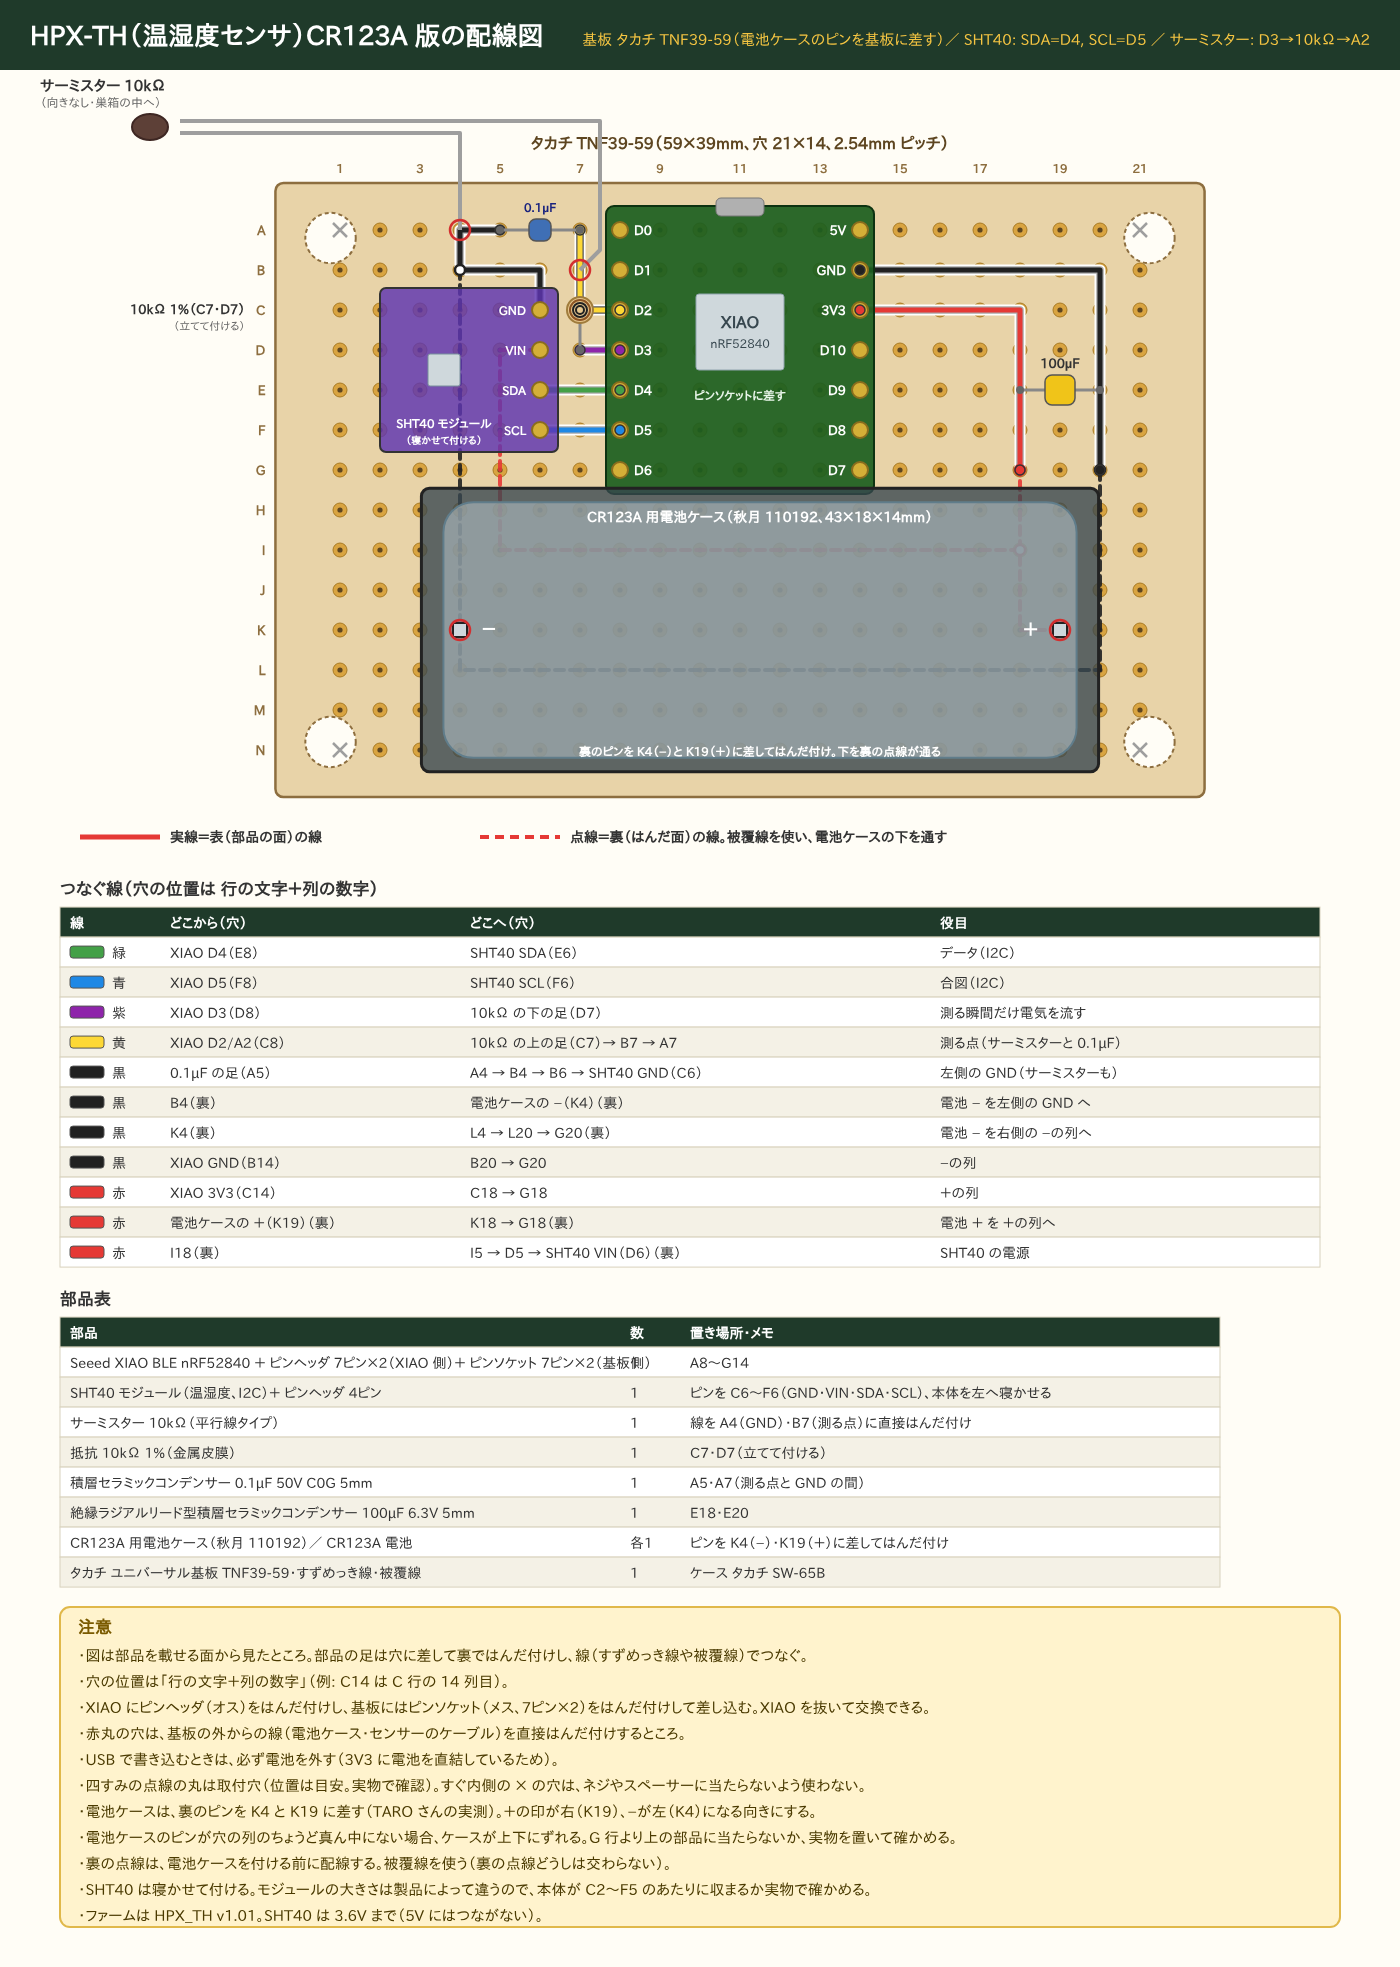
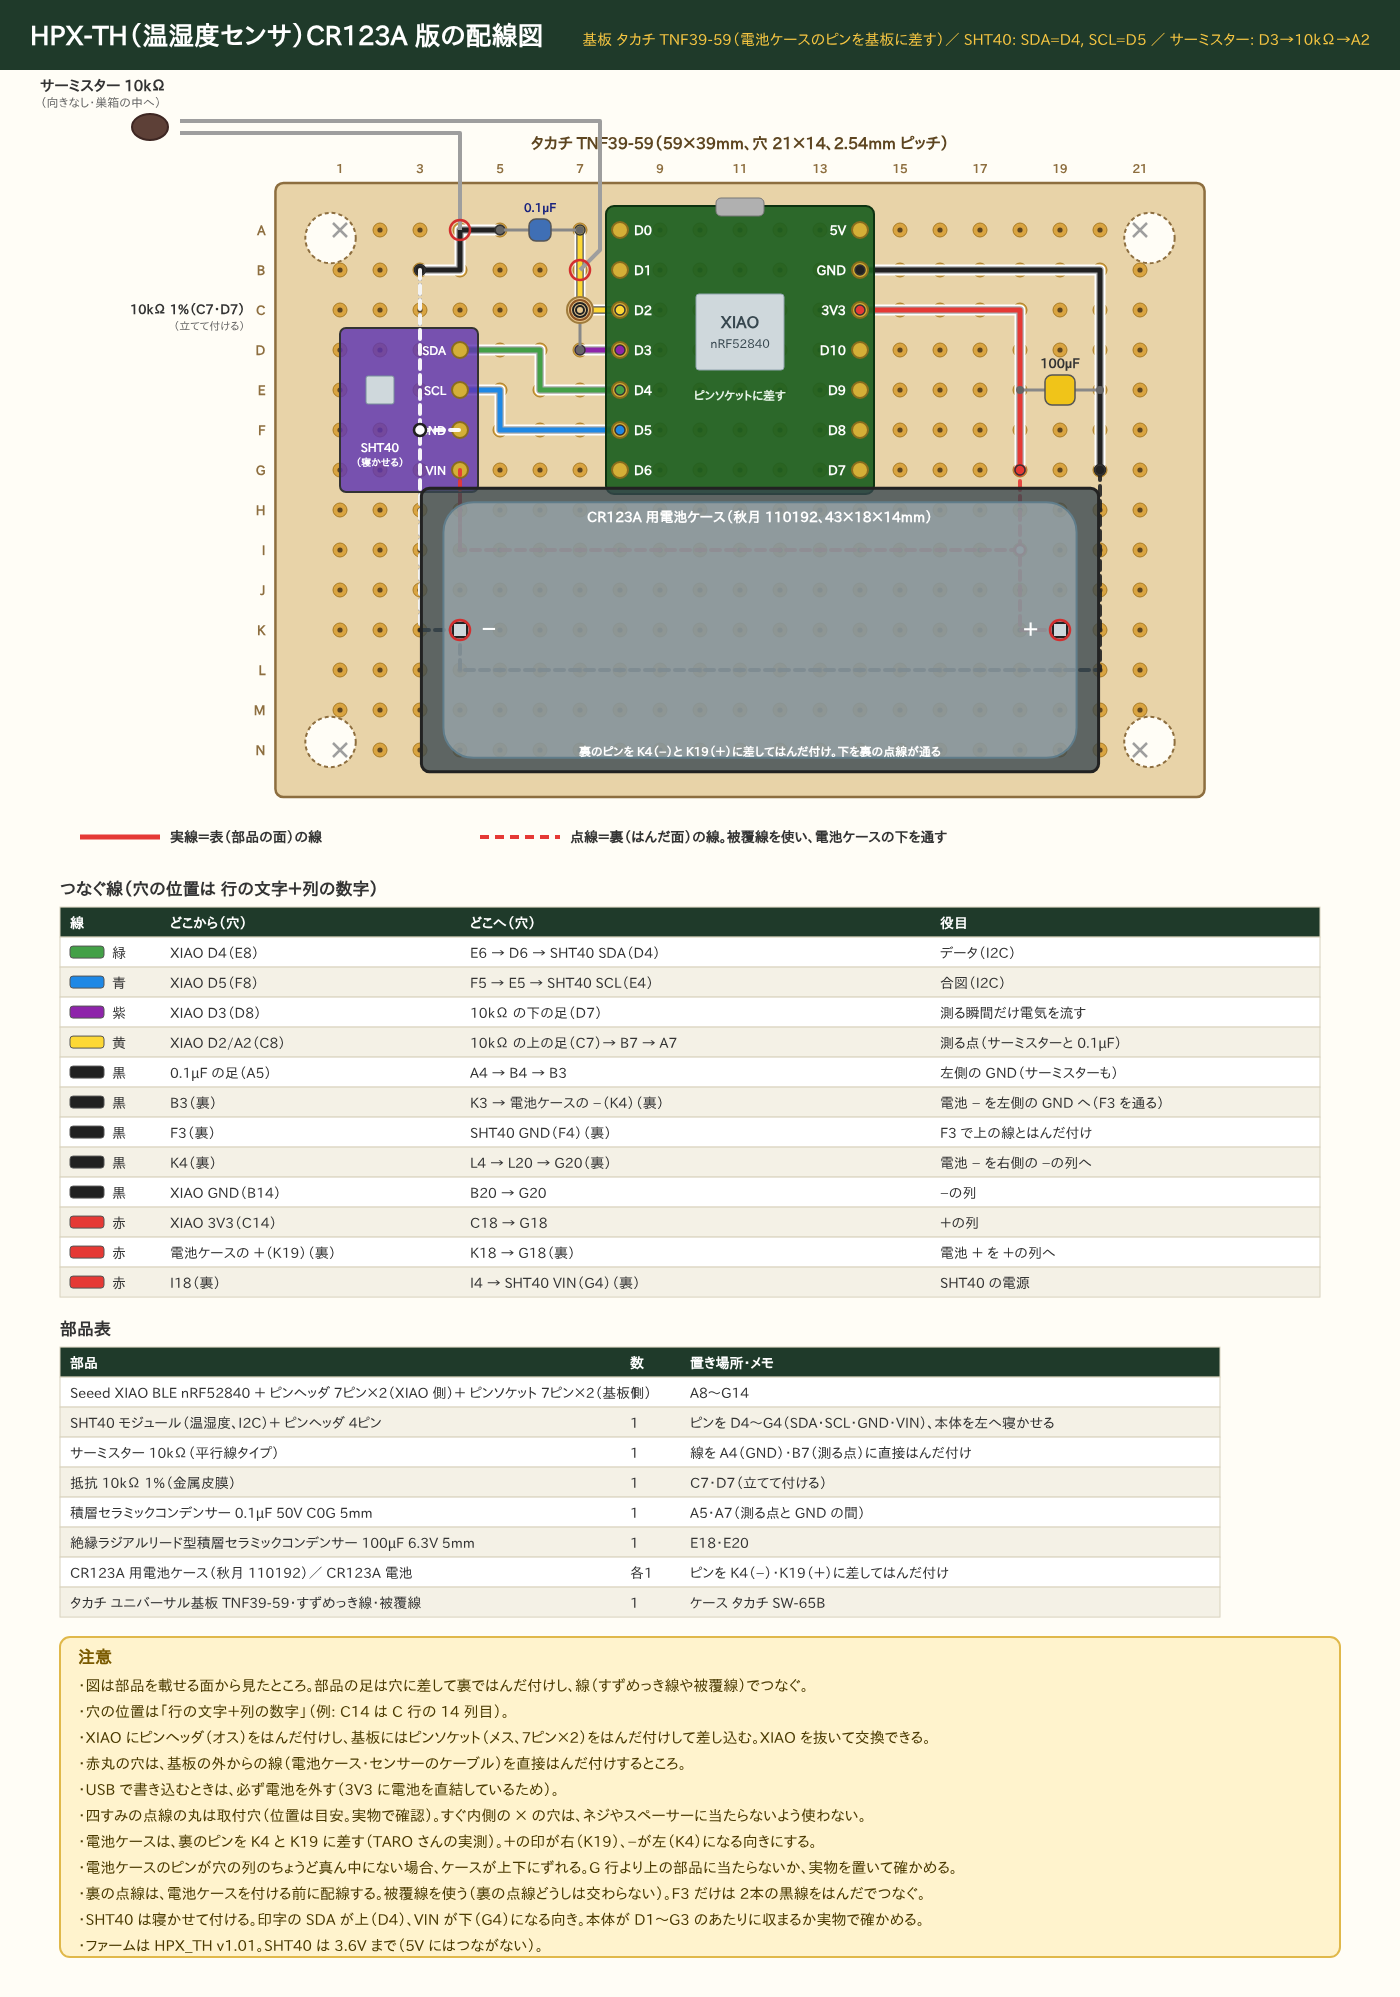
HPX-TH CR123A 版: SHT40 のピン順 (SDA・SCL・GND・VIN) に合わせて組み直す
TARO さんの指摘で、SHT40 モジュールのピンは上から SDA・SCL・GND・VIN。
ピンを D4〜G4 に移し、I2C の線が交わらないように E・F 行を回す。
GND は裏の B3→K3→K4 から F3 で分け、VIN は裏の I18→I4→G4 で入れる。

Claude-Session: https://claude.ai/code/session_01LCC9B49tx6iTQWsNLLe4HY

diff --git a/hardware/wiring/case/gen_case_pcb.py b/hardware/wiring/case/gen_case_pcb.py
@@ -585,7 +585,8 @@ def wire_back(s, pts, color):
         s.top.append(f'<circle cx="{x}" cy="{y}" r="5" fill="#fff" stroke="{c}" stroke-width="2.5"/>')
 
 def make_TH_on(fname):
-    """HPX-TH CR123A 版 (TNF39-59)。電池ケースのピンを K4(−)・K19(＋) に差す。SHT40 は寝かせて付ける"""
+    """HPX-TH CR123A 版 (TNF39-59)。電池ケースのピンを K4(−)・K19(＋) に差す。SHT40 は寝かせて付ける
+    SHT40 のピンは上から SDA・SCL・GND・VIN (D4〜G4)、本体は左へ"""
     global CX, CY
     CX, CY = 0, 0
     s = S(1400, 2100)
@@ -594,29 +595,36 @@ def make_TH_on(fname):
     x0, y0, bw, bh, k = GEO
     p = xiao_pcb(s, 7, 0)
     # ---- 裏の線 (先に描く) ----
-    wire_back(s, [(3, 1), (3, 10)], "black")                       # B4 → K4 (電池−)
+    wire_back(s, [(2, 1), (2, 10), (3, 10)], "black")              # B3 → K3 → K4 (電池−)
+    wire_back(s, [(2, 5), (3, 5)], "black")                        # F3 → F4 (SHT40 GND)
     wire_back(s, [(3, 10), (3, 11), (19, 11), (19, 6)], "black")   # K4 → L4 → L20 → G20
     wire_back(s, [(18, 10), (17, 10), (17, 6)], "red")             # K19 (電池＋) → K18 → G18
-    wire_back(s, [(17, 8), (4, 8), (4, 3), (5, 3)], "red")         # I18 → I5 → D5 → D6 (SHT40 VIN)
+    wire_back(s, [(17, 8), (3, 8), (3, 6)], "red")                 # I18 → I4 → G4 (SHT40 VIN)
     # ---- 表の線 ----
-    wireh(s, [p["D4"], (5, 4)], "green")
-    wireh(s, [p["D5"], (5, 5)], "blue")
+    wireh(s, [p["D4"], (5, 4), (5, 3), (3, 3)], "green")
+    wireh(s, [p["D5"], (4, 5), (4, 4), (3, 4)], "blue")
     wireh(s, [p["D2"], (6, 2), (6, 0)], "yellow")
     wireh(s, [p["D3"], (6, 3)], "purple")
-    wireh(s, [(4, 0), (3, 0), (3, 1), (5, 1), (5, 2)], "black")
+    wireh(s, [(4, 0), (3, 0), (3, 1), (2, 1)], "black")
     wireh(s, [p["3V3"], (17, 2), (17, 6)], "red")
     wireh(s, [p["GND"], (19, 1), (19, 6)], "black")
     res_stand(s, (6, 2), (6, 3), "10kΩ 1%（C7・D7）", ["#8d5524", "#212121", "#212121"], x0 - 30, H(0, 2)[1] + 4, "end")
     cap_flat(s, (4, 0), (6, 0), "0.1µF")
     s.text(H(5, 0)[0], H(5, 0)[1] - 18, "0.1µF", 12, "middle", "bold", "#1a237e", layer=s.top)
     cap_flat(s, (17, 4), (19, 4), "100µF", True, (H(18, 4)[0], H(18, 4)[1] - 22), "middle")
-    # SHT40 を寝かせて付ける (ピンは F 列… ではなく 6 列。本体は左へ)
-    flat_module(s, [2, 3, 4, 5], ["GND", "VIN", "SDA", "SCL"], "#5e35b1", 4, "", "", col=5)
-    sx, sy = H(2.6, 3.5)
-    s.top.append(f'<rect x="{sx-16}" y="{sy-16}" width="32" height="32" rx="2" fill="#cfd8dc" stroke="#78909c"/>')
-    s.text(H(2.6, 5)[0], H(2.6, 5)[1] - 2, "SHT40 モジュール", 12, "middle", "bold", "#fff", layer=s.top)
-    s.text(H(2.6, 5)[0], H(2.6, 5)[1] + 14, "（寝かせて付ける）", 10, "middle", "bold", "#fff", layer=s.top)
-    # サーミスター (上の端から A4・A7)
+    # SHT40 を寝かせて付ける (ピンは 4 列、本体は左へ)
+    flat_module(s, [3, 4, 5, 6], ["SDA", "SCL", "GND", "VIN"], "#5e35b1", 3, "", "", col=3)
+    # SHT40 の下を通る裏の線を、本体の上に重ねて見せる
+    for pts, c in (([(2, 1), (2, 10)], "black"), ([(2, 5), (3, 5)], "black"), ([(3, 8), (3, 6)], "red")):
+        d = "M" + " L".join(f"{H(*q)[0]},{H(*q)[1]}" for q in pts)
+        s.top.append(f'<path d="{d}" fill="none" stroke="{COL[c] if c == "red" else "#fff"}" stroke-width="4" stroke-dasharray="9 6" stroke-linecap="round" opacity="0.95"/>')
+    x5, y5 = H(2, 5)
+    s.top.append(f'<circle cx="{x5}" cy="{y5}" r="6" fill="#fff" stroke="#212121" stroke-width="2.5"/>')
+    sx, sy = H(1.0, 4.0)
+    s.top.append(f'<rect x="{sx-14}" y="{sy-14}" width="28" height="28" rx="2" fill="#cfd8dc" stroke="#78909c"/>')
+    s.text(H(1.0, 6)[0], H(1.0, 6)[1] - 18, "SHT40", 12, "middle", "bold", "#fff", layer=s.top)
+    s.text(H(1.0, 6)[0], H(1.0, 6)[1] - 4, "（寝かせる）", 10, "middle", "bold", "#fff", layer=s.top)
+    # サーミスター (上の端から A4・B7)
     for i, h in enumerate([(3, 0), (6, 1)]):
         x, y = H(*h)
         jx = x + 20 if i else x
@@ -647,22 +655,23 @@ def make_TH_on(fname):
     s.text(570, ly + 5, "点線＝裏（はんだ面）の線。被覆線を使い、電池ケースの下を通す", 14, weight="bold")
     y = table(s, 60, BOT + 110, [
         ["線", "どこから（穴）", "どこへ（穴）", "役目"],
-        ["green", f"XIAO D4（{hn(7,4)}）", f"SHT40 SDA（{hn(5,4)}）", "データ（I2C）"],
-        ["blue", f"XIAO D5（{hn(7,5)}）", f"SHT40 SCL（{hn(5,5)}）", "合図（I2C）"],
+        ["green", f"XIAO D4（{hn(7,4)}）", f"{hn(5,4)} → {hn(5,3)} → SHT40 SDA（{hn(3,3)}）", "データ（I2C）"],
+        ["blue", f"XIAO D5（{hn(7,5)}）", f"{hn(4,5)} → {hn(4,4)} → SHT40 SCL（{hn(3,4)}）", "合図（I2C）"],
         ["purple", f"XIAO D3（{hn(7,3)}）", f"10kΩ の下の足（{hn(6,3)}）", "測る瞬間だけ電気を流す"],
         ["yellow", f"XIAO D2/A2（{hn(7,2)}）", f"10kΩ の上の足（{hn(6,2)}）→ {hn(6,1)} → {hn(6,0)}", "測る点（サーミスターと 0.1µF）"],
-        ["black", f"0.1µF の足（{hn(4,0)}）", f"{hn(3,0)} → {hn(3,1)} → {hn(5,1)} → SHT40 GND（{hn(5,2)}）", "左側の GND（サーミスターも）"],
-        ["black", f"{hn(3,1)}（裏）", f"電池ケースの −（{hn(3,10)}）（裏）", "電池 − を左側の GND へ"],
+        ["black", f"0.1µF の足（{hn(4,0)}）", f"{hn(3,0)} → {hn(3,1)} → {hn(2,1)}", "左側の GND（サーミスターも）"],
+        ["black", f"{hn(2,1)}（裏）", f"{hn(2,10)} → 電池ケースの −（{hn(3,10)}）（裏）", f"電池 − を左側の GND へ（{hn(2,5)} を通る）"],
+        ["black", f"{hn(2,5)}（裏）", f"SHT40 GND（{hn(3,5)}）（裏）", f"{hn(2,5)} で上の線とはんだ付け"],
         ["black", f"{hn(3,10)}（裏）", f"{hn(3,11)} → {hn(19,11)} → {hn(19,6)}（裏）", "電池 − を右側の −の列へ"],
         ["black", f"XIAO GND（{hn(13,1)}）", f"{hn(19,1)} → {hn(19,6)}", "−の列"],
         ["red", f"XIAO 3V3（{hn(13,2)}）", f"{hn(17,2)} → {hn(17,6)}", "＋の列"],
         ["red", f"電池ケースの ＋（{hn(18,10)}）（裏）", f"{hn(17,10)} → {hn(17,6)}（裏）", "電池 ＋ を ＋の列へ"],
-        ["red", f"{hn(17,8)}（裏）", f"{hn(4,8)} → {hn(4,3)} → SHT40 VIN（{hn(5,3)}）（裏）", "SHT40 の電源"],
+        ["red", f"{hn(17,8)}（裏）", f"{hn(3,8)} → SHT40 VIN（{hn(3,6)}）（裏）", "SHT40 の電源"],
     ], [100, 300, 470, 390], "つなぐ線（穴の位置は 行の文字＋列の数字）")
     y = table(s, 60, y + 50, [
         ["部品", "数", "置き場所・メモ"],
         ["Seeed XIAO BLE nRF52840 ＋ ピンヘッダ 7ピン×2（XIAO 側）＋ ピンソケット 7ピン×2（基板側）", "1", f"{hn(7,0)}〜{hn(13,6)}"],
-        ["SHT40 モジュール（温湿度、I2C）＋ ピンヘッダ 4ピン", "1", f"ピンを {hn(5,2)}〜{hn(5,5)}（GND・VIN・SDA・SCL）、本体を左へ寝かせる"],
+        ["SHT40 モジュール（温湿度、I2C）＋ ピンヘッダ 4ピン", "1", f"ピンを {hn(3,3)}〜{hn(3,6)}（SDA・SCL・GND・VIN）、本体を左へ寝かせる"],
         ["サーミスター 10kΩ（平行線タイプ）", "1", f"線を {hn(3,0)}（GND）・{hn(6,1)}（測る点）に直接はんだ付け"],
         ["抵抗 10kΩ 1%（金属皮膜）", "1", f"{hn(6,2)}・{hn(6,3)}（立てて付ける）"],
         ["積層セラミックコンデンサー 0.1µF 50V C0G 5mm", "1", f"{hn(4,0)}・{hn(6,0)}（測る点と GND の間）"],
@@ -673,8 +682,8 @@ def make_TH_on(fname):
     L = NOTES + [
         f"・電池ケースは、裏のピンを {hn(3,10)} と {hn(18,10)} に差す（TARO さんの実測）。＋の印が右（{hn(18,10)}）、−が左（{hn(3,10)}）になる向きにする。",
         "・電池ケースのピンが穴の列のちょうど真ん中にない場合、ケースが上下にずれる。G 行より上の部品に当たらないか、実物を置いて確かめる。",
-        "・裏の点線は、電池ケースを付ける前に配線する。被覆線を使う（裏の点線どうしは交わらない）。",
-        f"・SHT40 は寝かせて付ける。モジュールの大きさは製品によって違うので、本体が {hn(1,2)}〜{hn(4,5)} のあたりに収まるか実物で確かめる。",
+        f"・裏の点線は、電池ケースを付ける前に配線する。被覆線を使う（裏の点線どうしは交わらない）。{hn(2,5)} だけは 2本の黒線をはんだでつなぐ。",
+        f"・SHT40 は寝かせて付ける。印字の SDA が上（{hn(3,3)}）、VIN が下（{hn(3,6)}）になる向き。本体が {hn(0,3)}〜{hn(2,6)} のあたりに収まるか実物で確かめる。",
         "・ファームは HPX_TH v1.01。SHT40 は 3.6V まで（5V にはつながない）。",
     ]
     notes(s, 60, y + 20, L)
